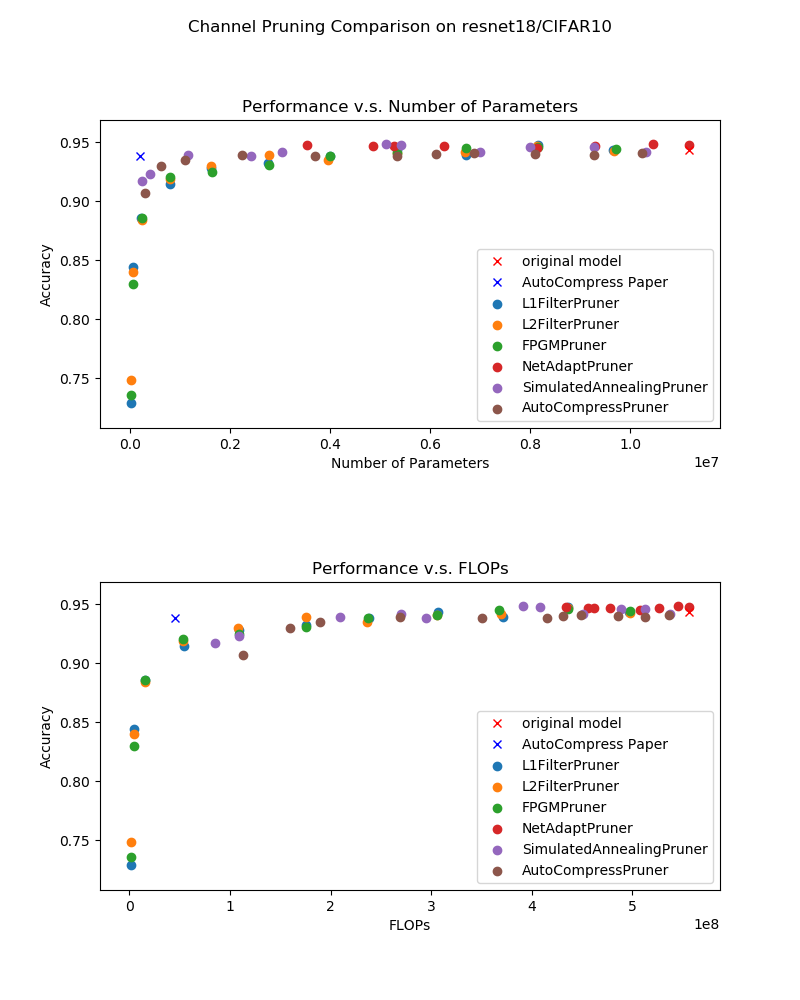
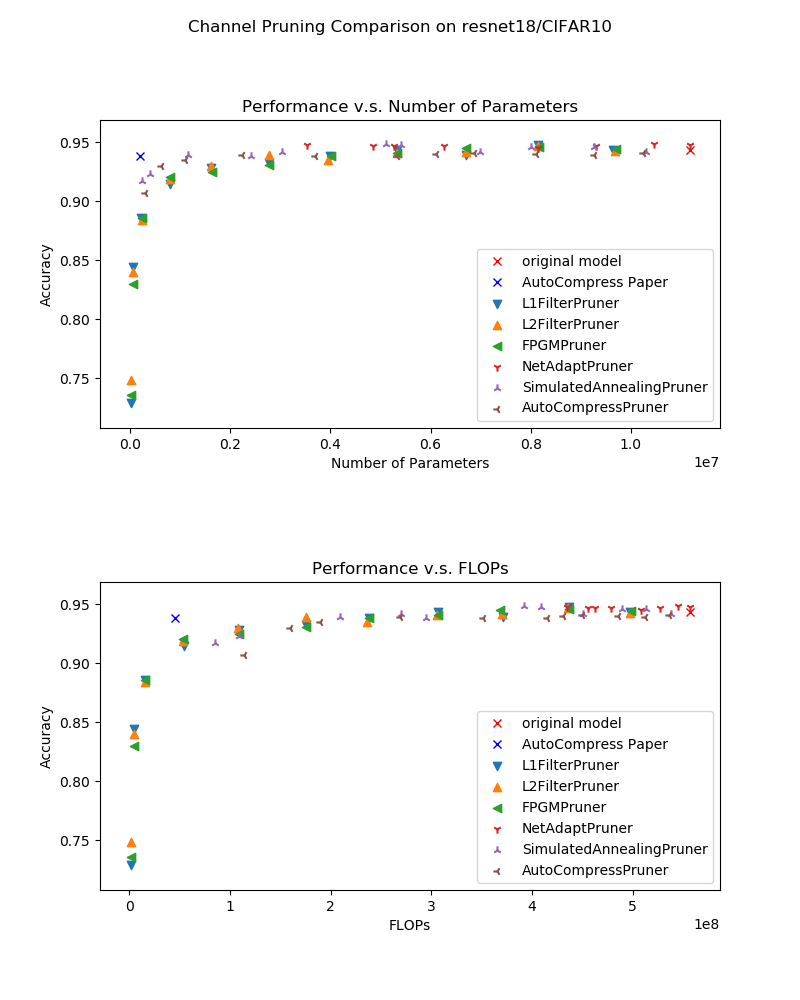
refine doc

diff --git a/examples/model_compress/comparison_of_pruners/analyze.py b/examples/model_compress/comparison_of_pruners/analyze.py
@@ -3,7 +3,7 @@ import json
 import matplotlib.pyplot as plt
 
 
-def plot_performance_comparison(args, normalize=False):
+def plot_performance_comparison(args):
     # reference data, performance of the original model and the performance declared in the AutoCompress Paper
     references = {
         'original':{
@@ -41,6 +41,8 @@ def plot_performance_comparison(args, normalize=False):
         }
     }
 
+    markers = ['v', '^', '<', '1', '2', '3', '4', '8', '*', '+', 'o']
+
     with open('cifar10/comparison_result_{}.json'.format(args.model), 'r') as jsonfile:
         result = json.load(jsonfile)
 
@@ -60,33 +62,33 @@ def plot_performance_comparison(args, normalize=False):
     fig.suptitle('Channel Pruning Comparison on {}/CIFAR10'.format(args.model))
     fig.subplots_adjust(hspace=0.5)
 
-    for pruner in pruners:
-        axs[0].scatter(params[pruner], performances[pruner], label=pruner)
-        axs[1].scatter(flops[pruner], performances[pruner], label=pruner)
+    for idx, pruner in enumerate(pruners):
+        axs[0].scatter(params[pruner], performances[pruner], marker=markers[idx], label=pruner)
+        axs[1].scatter(flops[pruner], performances[pruner], marker=markers[idx], label=pruner)
 
-    if normalize:
-        axs[0].annotate("original", (1, result['performance']['original']))
-        axs[0].set_xscale('log')
-    else:
-        params_original = references['original']['cifar10'][args.model]['params']
-        performance_original = references['original']['cifar10'][args.model]['performance']
-        axs[0].plot(params_original, performance_original, 'rx', label='original model')
-        if args.model in ['vgg16', 'resnet18']:
-            axs[0].plot(params_original/references['AutoCompressPruner']['cifar10'][args.model]['params'], references['AutoCompressPruner']['cifar10'][args.model]['performance'], 'bx', label='AutoCompress Paper')
+    # references
+    params_original = references['original']['cifar10'][args.model]['params']
+    performance_original = references['original']['cifar10'][args.model]['performance']
+    axs[0].plot(params_original, performance_original, 'rx', label='original model')
+    if args.model in ['vgg16', 'resnet18']:
+        axs[0].plot(params_original/references['AutoCompressPruner']['cifar10'][args.model]['params'],
+                    references['AutoCompressPruner']['cifar10'][args.model]['performance'],
+                    'bx', label='AutoCompress Paper')
+
     axs[0].set_title("Performance v.s. Number of Parameters")
     axs[0].set_xlabel("Number of Parameters")
     axs[0].set_ylabel('Accuracy')
     axs[0].legend()
 
-    if normalize:
-        axs[1].annotate("original", (1, result['performance']['original']))
-        axs[1].set_xscale('log')
-    else:
-        flops_original = references['original']['cifar10'][args.model]['flops']
-        performance_original = references['original']['cifar10'][args.model]['performance']
-        axs[1].plot(flops_original, performance_original, 'rx', label='original model')
-        if args.model in ['vgg16', 'resnet18']:
-            axs[1].plot(flops_original/references['AutoCompressPruner']['cifar10'][args.model]['flops'], references['AutoCompressPruner']['cifar10'][args.model]['performance'], 'bx', label='AutoCompress Paper')
+    # references
+    flops_original = references['original']['cifar10'][args.model]['flops']
+    performance_original = references['original']['cifar10'][args.model]['performance']
+    axs[1].plot(flops_original, performance_original, 'rx', label='original model')
+    if args.model in ['vgg16', 'resnet18']:
+        axs[1].plot(flops_original/references['AutoCompressPruner']['cifar10'][args.model]['flops'],
+                    references['AutoCompressPruner']['cifar10'][args.model]['performance'],
+                    'bx', label='AutoCompress Paper')
+
     axs[1].set_title("Performance v.s. FLOPs")
     axs[1].set_xlabel("FLOPs")
     axs[1].set_ylabel('Accuracy')

diff --git a/docs/en_US/CommunitySharings/ModelCompressionComparison.md b/docs/en_US/CommunitySharings/ModelCompressionComparison.md
@@ -15,11 +15,13 @@ The experiments are performed with the following pruners/datasets/models:
 
 * Pruners: 
     - These pruners are included:
-        - Pruners with scheduling : SimulatedAnnealing, NetAdapt, AutoCompress
-        - One-shot pruners: L1Filter, L2Filter, FPGMPruner
+        - Pruners with scheduling : `SimulatedAnnealing Pruner`, `NetAdapt Pruner`, `AutoCompress Pruner`.
+        Given the overal sparsity requirement, these pruners can automatically generate a sparsity distribution among different layers.
+        - One-shot pruners: `L1Filter Pruner`, `L2Filter Pruner`, `FPGM Pruner`.
+        The sparsity of each layer is set the same as the overall sparsity in this experiment.
     - Only **filter pruning** performances are compared here. 
-
-    For the pruners with scheduling, `L1FilterPruner` is used as the base algorithm. That is to say, after the sparsities distribution among the layers is decided by the scheduling algorithm, `L1FilterPruner` is used to performn real pruning.
+    
+    For the pruners with scheduling, `L1Filter Pruner` is used as the base algorithm. That is to say, after the sparsities distribution is decided by the scheduling algorithm, `L1Filter Pruner` is used to performn real pruning.
 
     - All the pruners listed above are implemented in [nni](https://github.com/microsoft/nni/tree/master/docs/en_US/Compressor/Overview.md).
 
@@ -48,15 +50,15 @@ CIFAR-10, ResNet50:
 
 From the experiment result, we get the following conclusions:
 
-* Given the constraint on the number of parameters, the pruners with scheduling ( `AutoCompress` , `SimualatedAnnealing` ) performs better than the others when the constraint is strict. However, they have no such advantage in FLOPs/Performances comparison since only number of parameters constraint is considered in the optimization process; 
-* The basic algorithms `L1FilterPruner` , `L2FilterPruner` , `FPGMPruner` performs very similarly in these experiments; 
-* `NetAdaptPruner` can not achieve very high compression rate. This is caused by its mechanism that it prunes only one layer each pruning iteration. This leads to un-acceptable complexity if the sparsity per iteration is much lower than the overall sparisity constraint.
+* Given the constraint on the number of parameters, the pruners with scheduling ( `AutoCompress Pruner` , `SimualatedAnnealing Pruner` ) performs better than the others when the constraint is strict. However, they have no such advantage in FLOPs/Performances comparison since only number of parameters constraint is considered in the optimization process; 
+* The basic algorithms `L1Filter Pruner` , `L2Filter Pruner` , `FPGM Pruner` performs very similarly in these experiments; 
+* `NetAdapt Pruner` can not achieve very high compression rate. This is caused by its mechanism that it prunes only one layer each pruning iteration. This leads to un-acceptable complexity if the sparsity per iteration is much lower than the overall sparisity constraint.
 
 ## Experiments Reproduction
 
 ### Implementation Details
 
-* The experiment results are all collected with the default configuration of the pruners in nni.
+* The experiment results are all collected with the default configuration of the pruners in nni, which means that when we call a pruner class in nni, we don't change any default class arguments.
 
 * Both FLOPs and the number of parameters are counted with [Model FLOPs/Parameters Counter](https://github.com/microsoft/nni/blob/master/docs/en_US/Compressor/CompressionUtils.md#model-flopsparameters-counter) after [model speed up](https://github.com/microsoft/nni/blob/master/docs/en_US/Compressor/ModelSpeedup.md). This avoids potential issues of counting them of masked models.
 
@@ -74,7 +76,7 @@ From the experiment result, we get the following conclusions:
     ```
 
 * The experiment results are saved [here](https://github.com/microsoft/nni/tree/master/examples/model_compress/experiment_data). 
-You can refer to [analyze](https://github.com/microsoft/nni/tree/master/examples/model_compress/experiment_data/analyze.py) to plot a new performance comparison figure.
+You can refer to [analyze](https://github.com/microsoft/nni/tree/master/examples/model_compress/experiment_data/analyze.py) to plot new performance comparison figures.
 
 ## Contribution
 

diff --git a/docs/en_US/model_compression.rst b/docs/en_US/model_compression.rst
@@ -22,6 +22,5 @@ For details, please refer to the following tutorials:
     Automatic Model Compression <Compressor/AutoCompression>
     Model Speedup <Compressor/ModelSpeedup>
     Compression Utilities <Compressor/CompressionUtils>
-    Compression Benchmark <Compressor/Benchmark>
     Compression Framework <Compressor/Framework>
     Customize Compression Algorithms <Compressor/CustomizeCompressor>

diff --git a/docs/en_US/CommunitySharings/perf_compare.rst b/docs/en_US/CommunitySharings/perf_compare.rst
@@ -9,3 +9,4 @@ Performance comparison and analysis can help users decide a proper algorithm (e.
 
     Neural Architecture Search Comparison <NasComparison>
     Hyper-parameter Tuning Algorithm Comparsion <HpoComparison>
+    Model Compression Algorithm Comparsion <ModelCompressionComparison>
